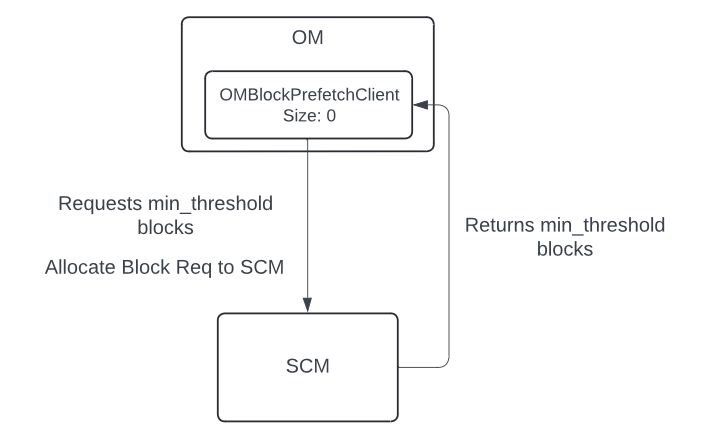
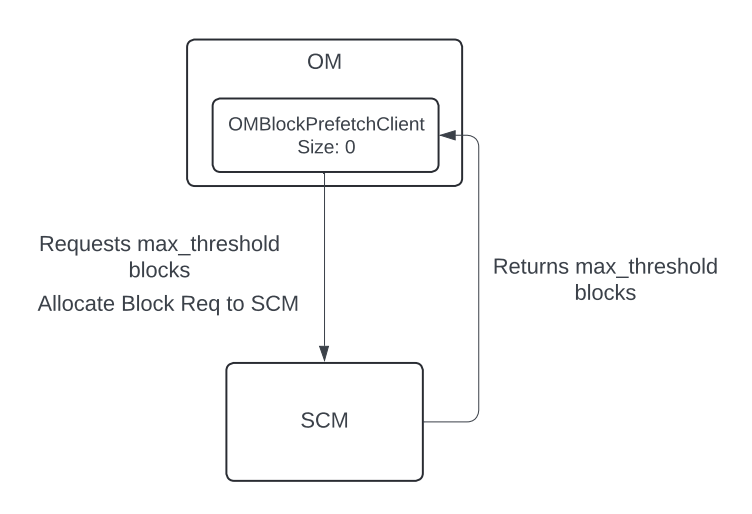
Update diagrams

Changed region(s): [[0.2444, 0.0297, 0.9778, 0.9795], [0.0306, 0.4452, 0.3972, 0.6233], [0.3972, 0.8014, 0.4889, 0.8607]]

diff --git a/hadoop-hdds/docs/content/design/preallocate-blocks/preallocate-blocks.md b/hadoop-hdds/docs/content/design/preallocate-blocks/preallocate-blocks.md
@@ -44,7 +44,7 @@ This design proposes a mechanism to preallocate blocks in OM and cache them for 
 #### 2. Block Pre-Fetching:
 
 - For every client write request made, we see if the cache size falls below the minimum threshold (configurable property: ozone.om.prefetch.min.blocks), if yes - the background thread is triggered to asynchronously prefetch blocks from SCM while adhering to a maximum cache size limit (configurable property: ozone.om.prefetch.max.blocks).
-- Example: A client write request for x blocks with an empty cache size results in max_threshold blocks being cached asynchronously in the background once the actual client request is through (ref: Figure 2).
+- Example: A client write request for x blocks with an empty cache size results in max_threshold blocks (max_threshold - cache_size) being cached asynchronously in the background once the actual client request is through (ref: Figure 2).
 
 #### Figure 2
 ![Block Pre-Fetching](block-prefetching.png)
@@ -53,12 +53,12 @@ This design proposes a mechanism to preallocate blocks in OM and cache them for 
 
 - Cached blocks are used for the request if available.
 - If the cache has fewer blocks than requested, we leave the cache as is and fallback to a synchronous RPC call to SCM.
-  - Example (ref: Figure 3): If the client requests x blocks (where x < min_threshold), x of the min_threshold cached blocks are used. Post this step, Step 2. is repeated to refill the cache asynchronously (if needed).
+  - Example (ref: Figure 3): If the client requests x blocks (where x < min_threshold), and min_threshold blocks remain cached, x of the min_threshold cached blocks are utilized for the request. Post this step, Step 2. is repeated to refill the cache asynchronously (if needed).
 
    #### Figure 3
    ![Block Usage and Refilling I](block-usage-refill-i.png)
 
-  - Example (ref: Figure 4): If the client requests x blocks (where x > min_threshold), and min_threshold blocks remain cached, all x blocks are fetched from SCM synchronously and returned to the client. Post this step, Step 2. is repeated to refill the cache asynchronously (if needed).
+  - Example (ref: Figure 4): If the client requests x blocks (where x > min_threshold), and min_threshold blocks remain cached, all x blocks are fetched from SCM synchronously and returned to the client (leaving the cache untouched). Post this step, Step 2. is repeated to refill the cache asynchronously (if needed).
   #### Figure 4
   ![Block Usage and Refilling II](block-usage-refill-ii.png)
 
